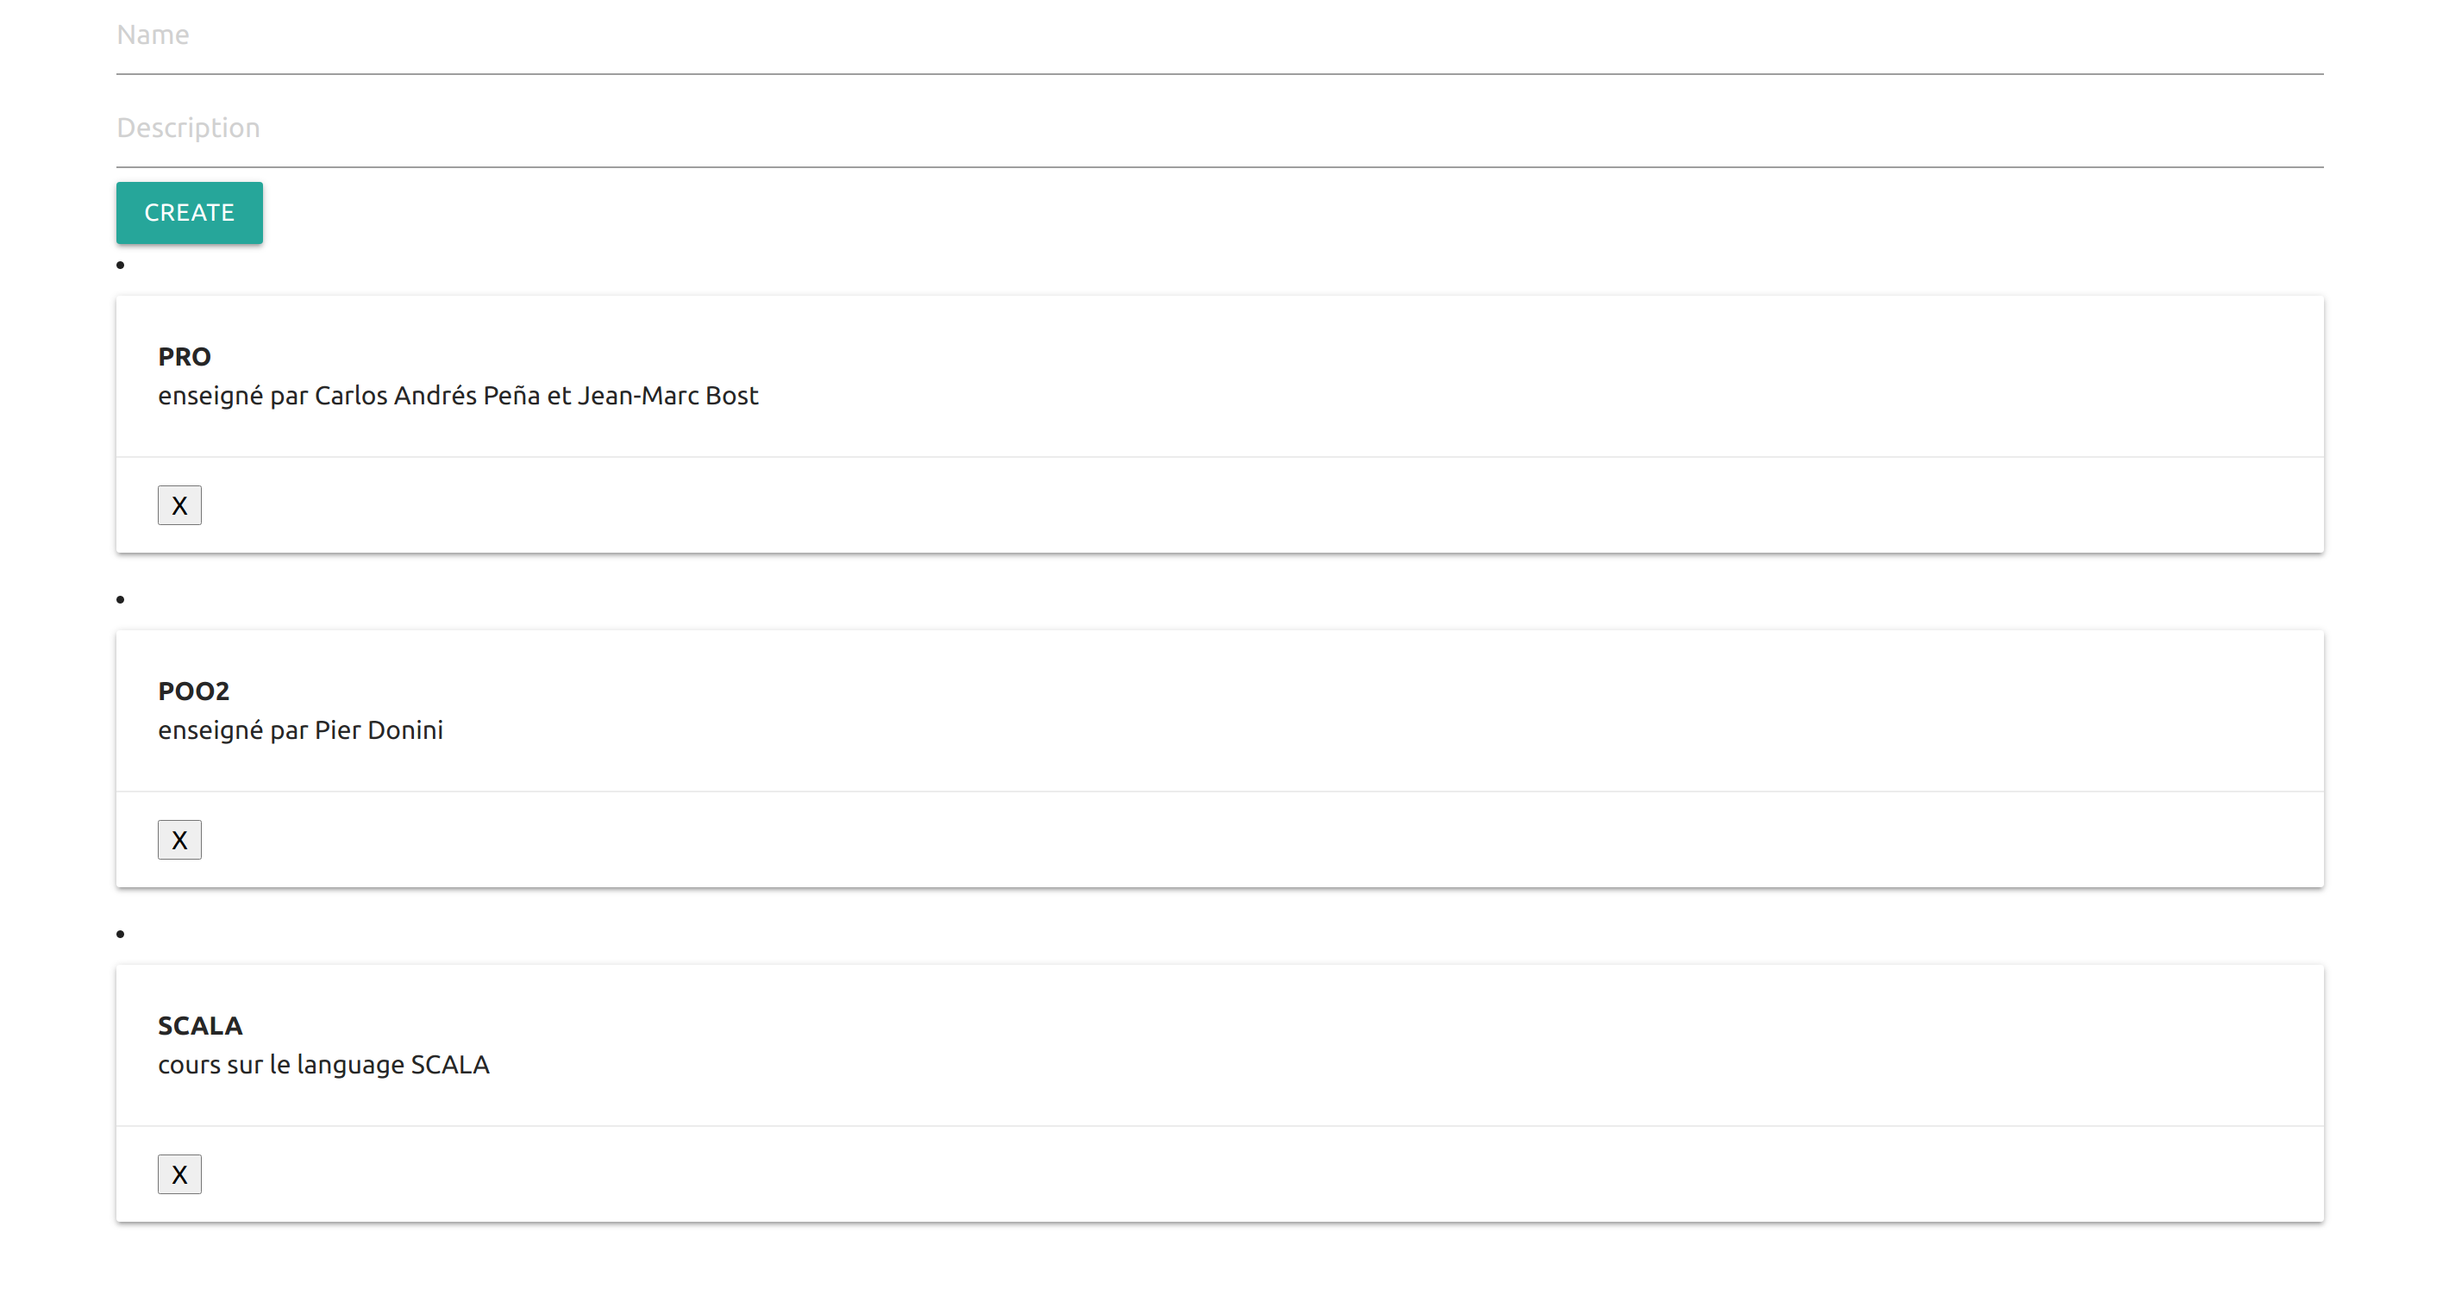
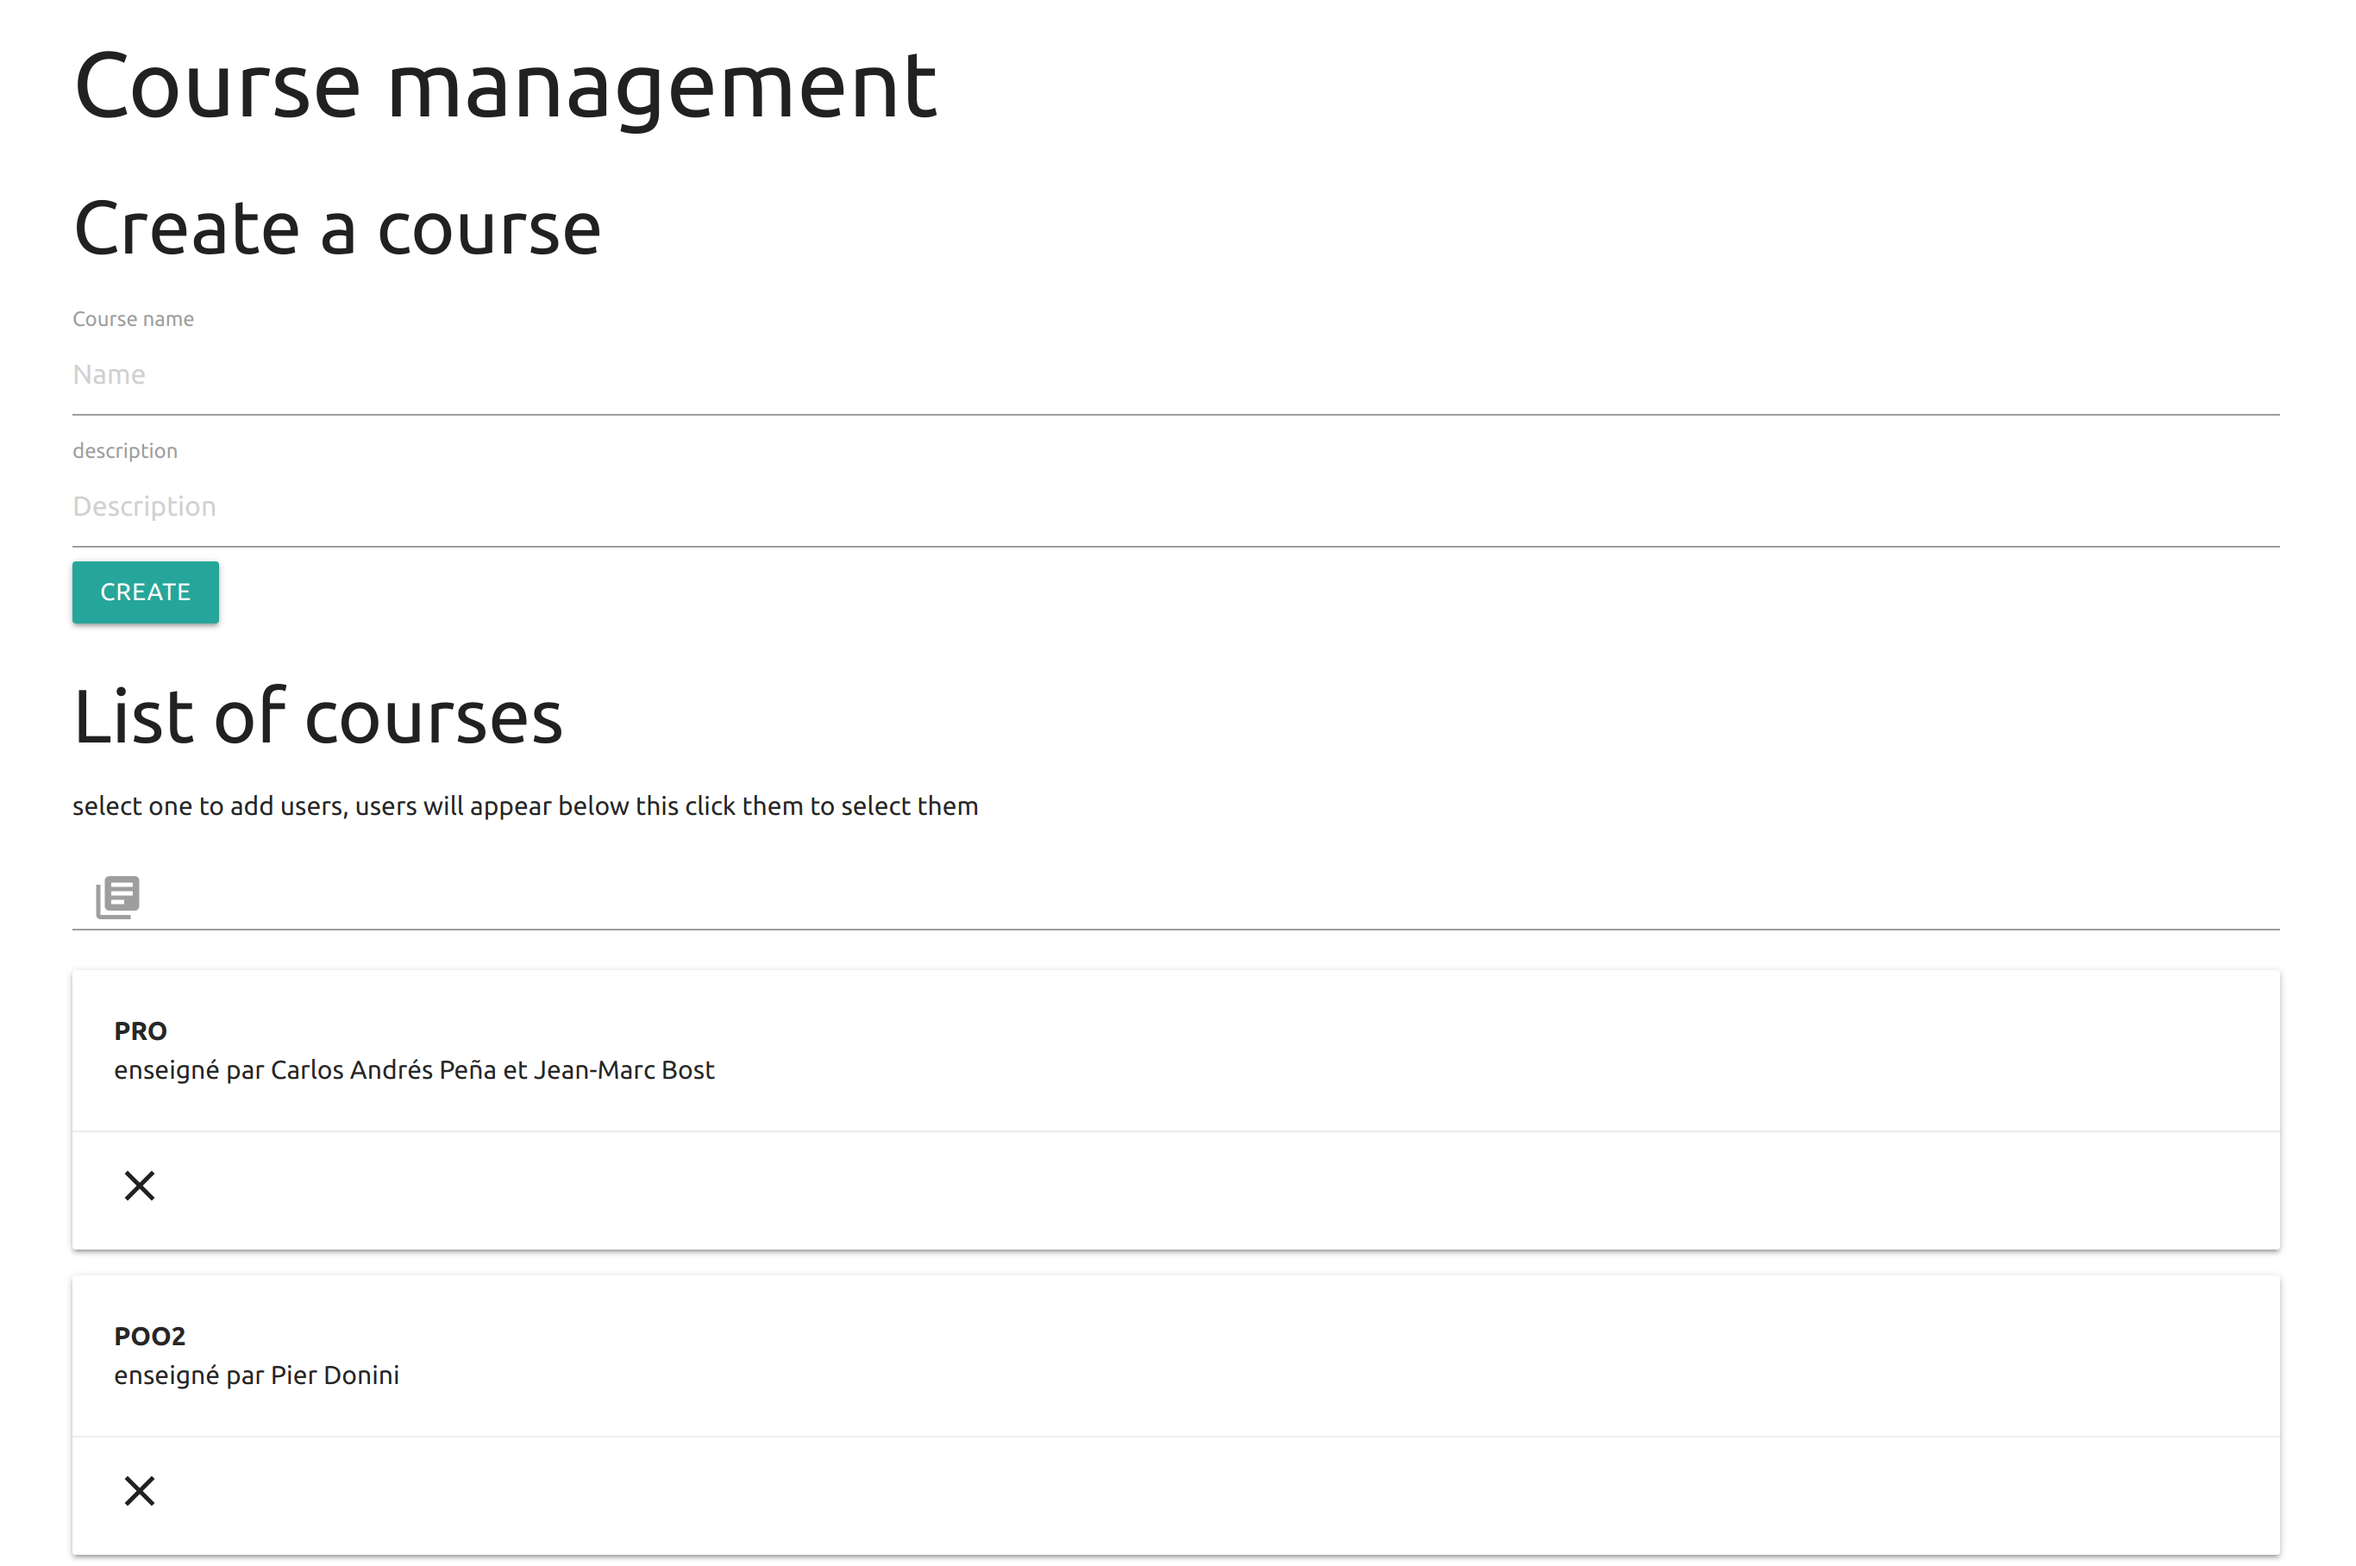
changement usersGuide

diff --git a/rapports/manuel_utilisateur.md b/rapports/manuel_utilisateur.md
@@ -2,58 +2,52 @@
 
 ##### Projet de semestre Alves, Cuénoud, Dupont, Mülhauser, Simonet
 
-
-
-TODO, faire des captures d'écran des différents menus et les expliquer
-1. [finDePage](#finDePage)
-
-
 ### Utilisateur simple, élève
 
 #### Page de Login
 
+Page de login.
+
 ![PageDeLogin](ImagesRapport/PageDeLogin.png)
 
-La barre verticale à gauche permet la navigation au travers des différents cours.
-
 #### Page d'accueil de l'application
+
+La barre verticale à gauche permet la navigation au travers des différents cours ainsi que l'accès aux deux menus gestion des cours et gestion des users pour les personnes habilitées.
 
 ![PageAccueilUser](ImagesRapport/PageAccueilUser.png)
 
 #### Page d'un cours sans message
 
+On peut écrire un message de type chat ou bien un message de type forum. Lors de l'édition d'un message de type forum on peut drag and drope un fichier pour l'attacher à notre poste.
+
 ![PageCoursSansMessage](ImagesRapport/PageCoursSansMessage.png)
 
 #### Page d'un cours avec des messages dans le chat et le forum
 
+Un message de type chat peut être transférée, par une personne ayant droit, dans le forum à l'aide de la flêche verte qui est attachée à celui-ci. Les message du forum peuvent être upvote/downvote à l'aide des flêche ^/v par tous les utilisateurs. La suppression des messages du forum peut être faite avec la croix en bas à gauche du poste.
+
 ![PageCoursAvecMessageChatForum](ImagesRapport/PageCoursAvecMessageChatForum.png)
-
-
-* tableau cours inscrit
-* chat:
-Les admins peuvent cliquer sur le bouton du message, jugé utile à mettre en avant, afin de le sélectionner pour le basculer dans le forum.
-* forum
-Nous pouvons upvote/downvote les messages du forum afin de juger de la pertinence. Les posts les plus upvotés apparaitrons directement en haut.
 
 ### Utilisateur admin, professeur ou assistant
 
-TODO
-
-* page création des cours
-
 #### Page de gestion de cours
 
+Un cours peut être créer avec la partie supérieure de l'interface. Dans la partie inférieure on peut voir les cours disponibles, une recherche est possible via la barre prévu à cet effet. Le clique sur un cours permet d'accèder à ses options. La crois quant à elle permet la suppression du cours.
+
 ![PageGestionDeCours](ImagesRapport/PageGestionDeCours.png)
-* inscription des élèves
-* modération
 
+Une fois un clique effectué sur un cours on peut séléctionner des participants pour celui-ci et ensuite validé pour les y ajoutés.
 
+![ManagementUser](ImagesRapport/ManagementCourse.png)
 
 ### Super Admin
 
-#### PAge de gestion des users
+#### Page de gestion des users
+
+Sur cette page comme pour celle des cours on peut procèder à la création d'un utilisateur ainsi que voir la liste de tous ceux-ci. Une barre de recherche permet de retrouver un utilisateur.
 
 ![PageGestionUsers](ImagesRapport/PageGestionUsers.png)
 
-* page d'admin, de gestion des users
-## fin de page <a name="finDePage"></a>
+Un clique sur la clé à molette d'un utilisateur permet de pouvoir changer les champs de son compte.
+
+![ModificationUser](ImagesRapport/ModificationUsers.png)
